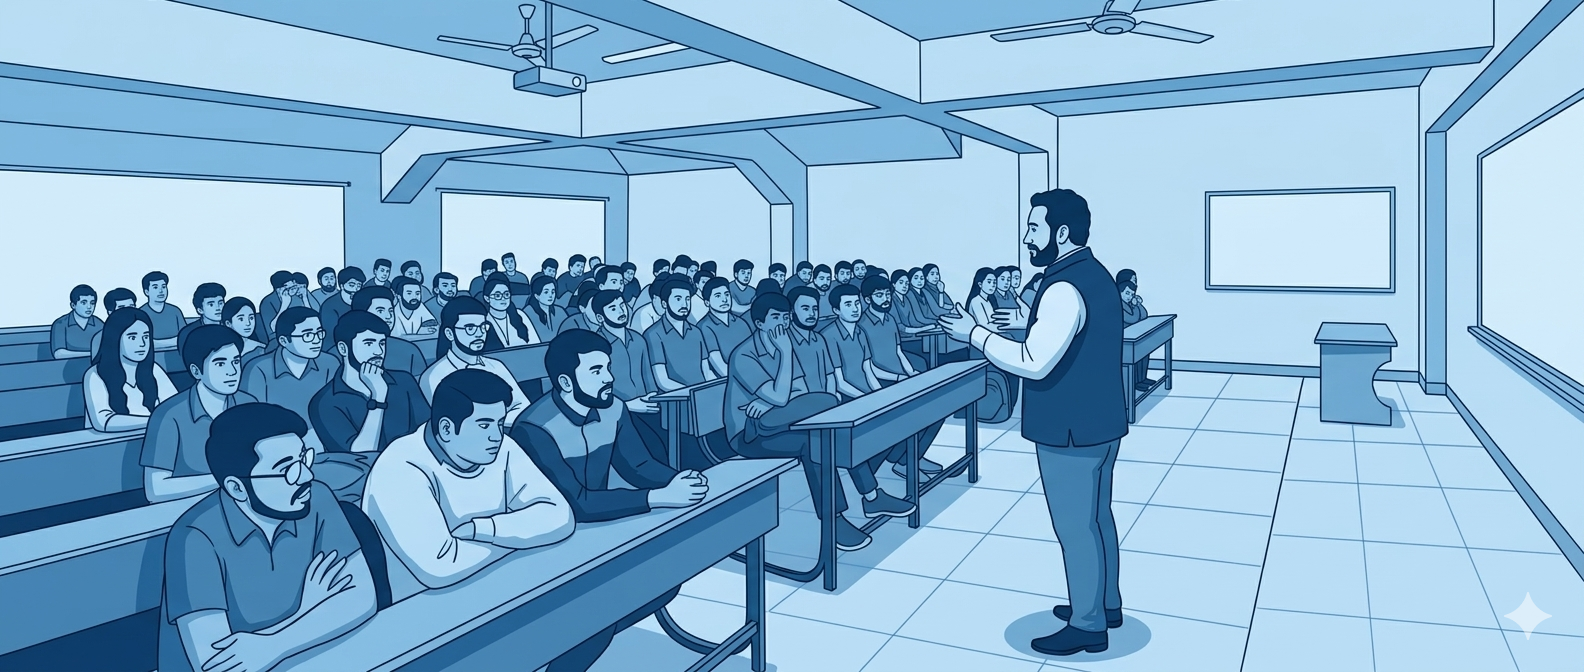
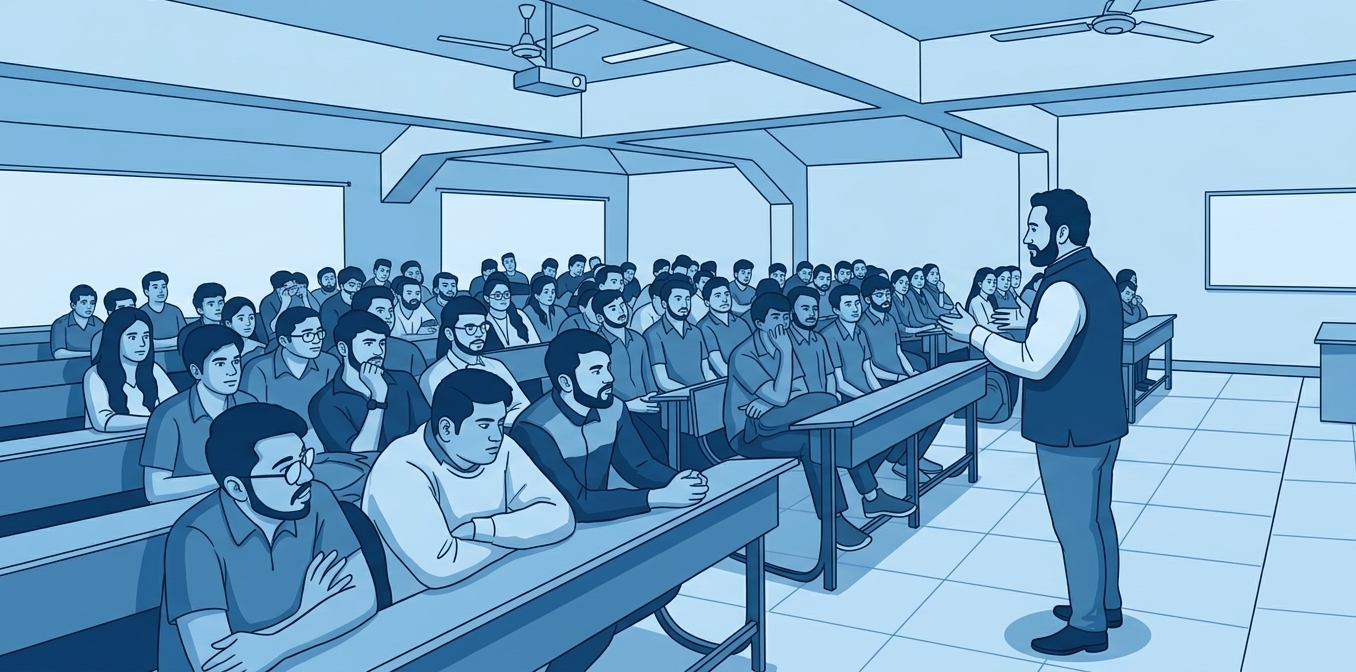
latest changes

diff --git a/src/components/Hero.tsx b/src/components/Hero.tsx
@@ -5,9 +5,8 @@ import { useEffect, useState } from "react";
 import bg2 from "@/assets/2.png";
 import bg3 from "@/assets/3.png";
 import bg5 from "@/assets/5.png";
-import bg6 from "@/assets/6.png";
 
-const backgrounds = [bg2, bg3, bg5, bg6];
+const backgrounds = [bg2, bg3, bg5];
 
 const Hero = () => {
   const [currentBg, setCurrentBg] = useState(0);
